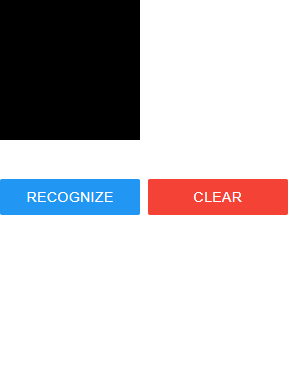
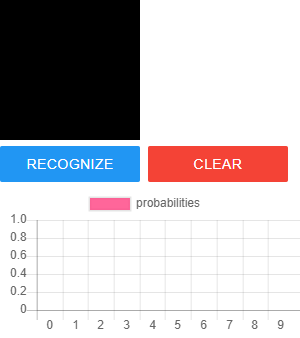
modify the chart

diff --git a/web/index.html b/web/index.html
@@ -12,7 +12,6 @@
         <p>Simple demo</p>
         <div id='container'>
             <canvas width="140" height="140" id="canvas" class="canvas"></canvas>
-            <canvas width="28" height="28" id="mini_canvas"></canvas>
             <div class='button-container'>
                 <button class="mui-btn mui-btn--primary btn" onclick="recognize()">recognize</button>
                 <button class="mui-btn mui-btn--danger btn" onclick="clear_canvas()">clear</button>   
@@ -24,11 +23,7 @@
         var chart = document.getElementById('chart_box');
         var chart_context = chart.getContext('2d');
         var label = ["0", "1", "2", "3", "4", "5", "6", "7", "8", "9"];
-        var clear_chart = function() {
-            if (window.chart) {
-                window.chart.destroy();
-            }
-        }
+
         var show_data = function(probabilities) {
             window.chart =  new Chart(chart_context, {
                 type: 'bar',
@@ -36,14 +31,30 @@
                   labels: label,
                   datasets: [{
                       label: 'probabilities',
-                      backgroundColor: '#f50057',
-                      borderColor: 'rgb(255, 99, 132)',
+                      backgroundColor: 'rgba(255, 64, 129, 0.8)',
                       data: probabilities,
                   }]
                 },
-                options: {}
+                options: {
+                    scales: {
+                        yAxes: [{
+                            ticks: {
+                                suggestedMin: 0,
+                                suggestedMax: 1,
+                                stepSize: 0.2
+                            }
+                        }]
+                    }
+                }
             })
         }
+
+        var update_data = function(probabilities) {
+            window.chart.data.datasets[0].data = probabilities;
+            window.chart.update();
+        }
+
+        show_data();
     </script>
     <script>
         var fabric_canvas = new fabric.Canvas('canvas', {backgroundColor: "#000000"});
@@ -53,14 +64,14 @@
         fabric_canvas.freeDrawingBrush.color = "#ffffff";
 
         var recognize = async function() {
-            var results = await predict('canvas', 'mini_canvas');
+            var results = await predict('canvas');
             console.log(results)
-            show_data(results);
+            update_data(results);
         }
 
         var clear_canvas = function() {
             fabric_canvas.clear();
-            clear_chart();
+            update_data();
         }
     </script>
     <style>

diff --git a/web/model.js b/web/model.js
@@ -1,6 +1,7 @@
 const width = 28;
 const height = 28;
 const MODEL_URL = 'http://localhost:5000/models/mnist/model.json' 
+// const MODEL_URL = 'https://raw.githubusercontent.com/chench53/digits-recognition-tfjs/master/server/models/mnist/model.json' // on-line model
 
 var loadModel = (async function() {
     window.model = await tf.loadLayersModel(MODEL_URL);
@@ -27,6 +28,5 @@ var predict = async function(id, mini_id) {
     var example = this.load_img(canvas, mini_id);
     var prediction = await model.predict(example).data();
     var results = Array.from(prediction);
-
     return results
 }

diff --git a/README.md b/README.md
@@ -1,4 +1,4 @@
-# digit-recognition-tfjs
+# digits-recognition-tfjs
 
 This project is a simple demo shows how to train a tensorflow model with python and deploy it in frontend. The author thanks a great deal to this blog [Recognizing Digits using TensorFlow.js in Google Chrome](https://gogul09.github.io/software/digit-recognizer-tf-js), which make this small project possible. You should check this out if you are interested in tf.js.
 
@@ -25,7 +25,7 @@ python main.py
 ```
 By default, the server would be running at port 5000. Open this url http://localhost:5000/, if you see 'Hello World!' in the screen, it means the server is set up successfully.
 
-Open the file web/index.html in you browser. If everything you have done is ok, you should see something like this:
+Open the file web/index.html in you browser. If everything is ok, you should see something like this:
 
 ![demo](./demo.png)
 
